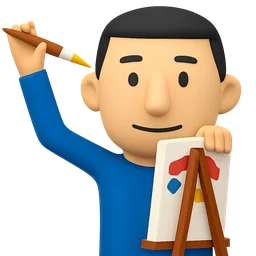
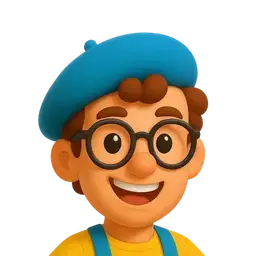
fix: updated imagery & colors (#234)
* fix: updated imagery & colors

* chore: admonster -> ad_monster

* fix: sizing of images is now correct

* feat: new bot descriptions

diff --git a/flexus_simple_bots/vix/vix_install.py b/flexus_simple_bots/vix/vix_install.py
@@ -20,36 +20,32 @@ VIX_SKILLS = ckit_skills.static_skills_find(VIX_ROOTDIR, shared_skills_allowlist
 
 
 BOT_DESCRIPTION = """
-## Vix - Sales & Marketing Agent
+**Job description**
+Vix is an integrated sales and marketing agent who covers the full revenue cycle — from first contact to closed deal. She manages your CRM, runs outreach through Gmail, nurtures leads with automated follow-ups, and sells consultatively using the C.L.O.S.E.R. framework. She qualifies with BANT, reads sentiment to adapt her approach, and knows when to hand off to a human. Whether you need marketing operations, active selling, or steady lead nurturing, Vix switches modes to match the job.
 
-Integrated sales and marketing agent with CRM management, lead nurturing, and consultative selling.
+**How Vix can help you:**
 
-**Marketing (Default):**
-- CRM management, contact import from CSV or landing pages
-- Automatic welcome emails to new contacts
-- Gmail integration for outreach
-- CRM automations (triggers and actions)
-- Company and product setup
+*Marketing:*
+- Manages your CRM and imports contacts from CSV files or landing pages
+- Sends automatic welcome emails to new contacts the moment they come in
+- Runs outreach campaigns through Gmail integration
+- Builds CRM automations with custom triggers and actions
+- Handles company and product setup so your CRM reflects your actual business
 
-**Sales:**
-- C.L.O.S.E.R. Framework for consultative selling
-- BANT lead qualification
-- Sentiment detection and adaptive approach
-- Smart handoff to human agents
+*Sales:*
+- Sells consultatively using the C.L.O.S.E.R. Framework
+- Qualifies leads with BANT (Budget, Authority, Need, Timeline)
+- Detects sentiment in conversations and adapts her approach accordingly
+- Executes smart handoffs to human agents when the moment calls for it
 
-**Nurturing:**
-- Lightweight automated tasks
-- Send emails using templates
-- Follow-ups based on CRM activities
+*Nurturing:*
+- Runs lightweight automated tasks to keep leads warm between touchpoints
+- Sends emails using pre-built templates for consistent, on-brand communication
+- Triggers follow-ups based on CRM activity so no lead goes cold by accident
 
-**Shopify (optional):**
-- Connect Shopify stores, sync products/orders/payments automatically
-- Create draft orders with checkout links
-
-**Skills:**
-- **Default**: Marketing, CRM, automations, setup, Shopify
-- **Sales**: Consultative selling with C.L.O.S.E.R. Framework
-- **Nurturing**: Automated templated emails and follow-ups (fast model)
+*Shopify (optional):*
+- Connects your Shopify store and syncs products, orders, and payments automatically
+- Creates draft orders with checkout links directly from conversations
 """
 
 
@@ -99,7 +95,7 @@ async def install(
         ws_id=client.ws_id,
         marketable_name=bot_name,
         marketable_version=bot_version,
-        marketable_accent_color="#dedad0",
+        marketable_accent_color="#645ff6",
         marketable_title1="Vix",
         marketable_title2="Sales & Marketing Agent - CRM, automations, and consultative selling with C.L.O.S.E.R. Framework.",
         marketable_author="Flexus",

diff --git a/flexus_simple_bots/botticelli/botticelli_install.py b/flexus_simple_bots/botticelli/botticelli_install.py
@@ -18,28 +18,18 @@ BOTTICELLI_SETUP_SCHEMA = json.loads((BOTTICELLI_ROOTDIR / "setup_schema.json").
 
 
 BOT_DESCRIPTION = """
-## Botticelli - Meta Ads Creative Director
+**Job description**
+Botticelli is an AI Creative Director who turns brand inputs into high-converting Meta ad creatives — without a design team. Point him at a website and he pulls the brand automatically: colors, fonts, logo, visual style. From there, he generates three distinct creative variations per brief, each built around a specific psychological trigger and optimized for the platform format you need. Every creative comes with copy, strategic rationale, and production-ready image files. Fast when you need speed. Precise when quality is the priority.
 
-AI Creative Director specializing in high-converting Facebook & Instagram ad creatives.
-
-**Key Features:**
-- **Website Brand Scanner**: Automatically extracts colors, fonts, logo, and visual style from any website
-- Generates 3 creative variations optimized with cognitive biases
-- Dual image generation backends:
-  - **Nano Banana (Google Gemini)**: Fast, native aspect ratios (1:1, 4:5, 9:16, 16:9, etc.)
-  - **OpenAI DALL-E 3**: High-quality fixed sizes
-- Hyper-specific prompts (200-300 words)
-- Complete copy recommendations (Primary Text, Headline, Description)
-- Multiple ad formats (Square 1:1, Portrait 4:5, Landscape 16:9, Stories 9:16)
-- Strategic rationale for each variation
-- Leverages psychological triggers (Social Proof, Scarcity, Authority, Anchoring, etc.)
-- Image generation, cropping, and WebP optimization
-
-**Perfect for:**
-- Meta Ads campaigns (Facebook/Instagram)
-- Performance marketers testing creative variations
-- Growth teams optimizing ad performance
-- Agencies managing multiple campaigns
+**How Botticelli can help you:**
+- Scans any website to extract brand colors, fonts, logo, and visual identity automatically
+- Generates 3 creative variations per brief, each optimized with a different cognitive bias (Social Proof, Scarcity, Authority, Anchoring, and more)
+- Produces hyper-specific image generation prompts (200–300 words) for pixel-accurate results
+- Writes complete ad copy for every variation — Primary Text, Headline, and Description
+- Supports all Meta ad formats: Square (1:1), Portrait (4:5), Landscape (16:9), Stories (9:16)
+- Runs two image generation backends — Nano Banana (Google Gemini) for speed and native aspect ratios, DALL-E 3 for high-quality output
+- Handles image cropping and WebP optimization so creatives are ready to upload
+- Explains the strategic rationale behind each variation so performance teams know what they're testing and why
 """
 
 
@@ -85,7 +75,7 @@ async def install(
         ws_id=client.ws_id,
         marketable_name=bot_name,
         marketable_version=bot_version,
-        marketable_accent_color="#8B73A5",
+        marketable_accent_color="#49cdc2",
         marketable_title1="Botticelli",
         marketable_title2="I create high-converting Meta Ads creatives with cognitive bias optimization",
         marketable_author="Flexus",

diff --git a/flexus_simple_bots/lawyerrat/lawyerrat_install.py b/flexus_simple_bots/lawyerrat/lawyerrat_install.py
@@ -17,19 +17,17 @@ LAWYERRAT_SKILLS = ckit_skills.static_skills_find(LAWYERRAT_ROOTDIR, shared_skil
 LAWYERRAT_SETUP_SCHEMA = json.loads((LAWYERRAT_ROOTDIR / "setup_schema.json").read_text())
 
 BOT_DESCRIPTION = """
-## LawyerRat - Legal Research & Document Assistant
+**Job description**
+LawyerRat is a thorough legal assistant who burrows through documents with rat-like persistence. He handles the legal heavy lifting your team keeps putting off — contract reviews, NDA triage, compliance checks, risk assessments, and document drafting. Every contract clause gets classified, every compliance gap gets flagged, every risk gets scored. LawyerRat gives you the clarity to move fast without getting blindsided. He provides legal information and analysis, not legal advice — always loop in a licensed attorney before signing anything that matters.
 
-A thorough legal assistant that burrows through documents with rat-like persistence. LawyerRat handles legal research, document drafting, contract review, NDA triage, compliance checks, and risk assessments.
-
-**Key Features:**
-- **Legal Research**: Comprehensive research on legal topics and precedents
-- **Document Drafting**: Professional legal documents and contracts
-- **Contract Review**: Clause-by-clause analysis with GREEN/YELLOW/RED classification
-- **NDA Triage**: Quick screening against standard checklist with sign/negotiate/escalate routing
-- **Compliance Review**: GDPR, CCPA/CPRA, DPA assessment with gap analysis
-- **Risk Assessment**: Severity x Likelihood scoring with prioritized mitigation plans
-
-**Important**: LawyerRat provides legal information and analysis, not legal advice. Always consult with a licensed attorney for actual legal advice.
+**How LawyerRat can help you:**
+- Researches legal topics and precedents thoroughly so you walk into any conversation prepared
+- Drafts professional legal documents and contracts tailored to your situation
+- Reviews contracts clause by clause with GREEN / YELLOW / RED risk classification
+- Triages NDAs against a standard checklist and routes each one to sign, negotiate, or escalate
+- Runs compliance assessments for GDPR, CCPA/CPRA, and DPA — with gap analysis included
+- Scores risks by Severity x Likelihood and produces prioritized mitigation plans
+- Cuts through legal complexity so your team spends less time decoding documents and more time deciding
 """
 
 
@@ -147,7 +145,7 @@ async def install(
         ws_id=client.ws_id,
         marketable_name=bot_name,
         marketable_version=bot_version,
-        marketable_accent_color="#8B4513",
+        marketable_accent_color="#49cdc2",
         marketable_title1="LawyerRat",
         marketable_title2="A thorough legal research and document assistant with meticulous attention to detail.",
         marketable_author="Flexus",

diff --git a/flexus_simple_bots/clerkwing/clerkwing_install.py b/flexus_simple_bots/clerkwing/clerkwing_install.py
@@ -17,22 +17,17 @@ CLERKWING_SKILLS = ckit_skills.static_skills_find(CLERKWING_ROOTDIR, shared_skil
 CLERKWING_SETUP_SCHEMA = json.loads((CLERKWING_ROOTDIR / "setup_schema.json").read_text())
 
 BOT_DESCRIPTION = """
-## Clerkwing - Your Secretary Robot
+**Job description**
+Clerkwing is your secretary robot — efficient, warm, and always on top of the pile. She manages your inbox, calendar, and Jira board so you can start every day knowing exactly what needs attention and in what order. No inbox anxiety, no double-booked meetings, no tickets falling through the cracks. Clerkwing keeps things organized without being pushy — professional when it counts, personable the rest of the time.
 
-A helpful and enthusiastic assistant that manages your email, calendar, and Jira tasks with efficiency and warmth.
-
-**Key Features:**
-- **Email Management**: Summarize unread emails, categorize by priority, create labels, draft responses
-- **Calendar Organization**: Check meetings, find free slots, manage events and conflicts
-- **Jira Integration**: Search issues, track progress, move tasks, create and update tickets
-
-**Perfect for:**
-- Daily inbox and calendar reviews
-- Staying on top of Jira tasks
-- Organizing and prioritizing work
-- Quick status updates across your tools
-
-Clerkwing combines professional efficiency with a personable touch, keeping things organized without being pushy.
+**How Clerkwing can help you:**
+- Summarizes unread emails and categorizes them by priority so you know what actually needs a reply
+- Drafts email responses and applies labels to keep your inbox clean and structured
+- Checks your calendar for upcoming meetings, finds free slots, and resolves scheduling conflicts
+- Creates, updates, and moves Jira tickets — so your board reflects reality, not wishful thinking
+- Searches Jira issues and surfaces progress updates across active tasks
+- Runs daily inbox and calendar reviews to give you a clear picture of the day ahead
+- Delivers quick status snapshots across email, calendar, and Jira without you having to switch between tools
 """
 
 EXPERTS = [
@@ -67,7 +62,7 @@ async def install(
         ws_id=client.ws_id,
         marketable_name=bot_name,
         marketable_version=bot_version,
-        marketable_accent_color="#2B4341",
+        marketable_accent_color="#41b949",
         marketable_title1="Clerkwing",
         marketable_title2="Your helpful secretary robot for email, calendar, and Jira management.",
         marketable_author="Flexus",

diff --git a/flexus_simple_bots/telegram_groupmod/telegram_groupmod_install.py b/flexus_simple_bots/telegram_groupmod/telegram_groupmod_install.py
@@ -13,22 +13,21 @@ TELEGRAM_GROUPMOD_SKILLS = ckit_skills.static_skills_find(TELEGRAM_GROUPMOD_ROOT
 TELEGRAM_GROUPMOD_SETUP_SCHEMA = json.loads((TELEGRAM_GROUPMOD_ROOTDIR / "setup_schema.json").read_text())
 
 BOT_DESCRIPTION = """
-## Telegram GroupMod - Group Moderation Bot
+**Job description**
+Telegram GroupMod is the admin your group actually needs. He keeps communities clean, safe, and on-topic — 24/7, without moderator burnout. Spam gets caught, bad actors get escalated, and new members are vetted before they can cause trouble. Every moderation action is logged, and daily reports keep you in the loop without requiring you to read every message. Set the rules once; GroupMod enforces them consistently.
 
-Keeps your Telegram groups clean, safe, and on-topic.
+**How Telegram GroupMod can help you:**
+- Deletes messages containing blocked words or phrases automatically
+- Blocks links from non-whitelisted domains to stop spam and unwanted promotions
+- Detects spam patterns and flags excessive forwarded messages before they flood the chat
+- Warns, mutes, kicks, or bans users with auto-escalation — consequences match the behavior
+- Challenges new members with captcha or custom questions to filter bots and bad-faith joiners
+- Runs periodic buffer reviews to catch off-topic content that slips through keyword filters
+- Generates daily moderation reports stored in MongoDB so you always know what happened and why
 
-**Features:**
-- Delete messages matching word/phrase blocklist
-- Block links except from whitelisted domains
-- Detect spam and excessive forwarded messages
-- Warn, mute, kick, or ban users with auto-escalation
-- Challenge new members with captcha/questions
-- Periodic buffer review for offtopic detection
-- Daily moderation reports in MongoDB
-
-**Requires:**
-- Telegram bot token from @BotFather
-- Bot must be added as admin to the group with delete/ban permissions
+**What you need to get started:**
+- A Telegram bot token from @BotFather
+- GroupMod added as admin to your group with delete and ban permissions enabled
 """
 
 
@@ -80,7 +79,7 @@ async def install(
         ws_id=client.ws_id,
         marketable_name=bot_name,
         marketable_version=bot_version,
-        marketable_accent_color="#DC143C",
+        marketable_accent_color="#ff66ae",
         marketable_title1="Telegram Group Mod",
         marketable_title2="Moderate Telegram groups: filter messages, manage members, enforce rules.",
         marketable_author="Flexus",

diff --git a/flexus_simple_bots/productman/productman_install.py b/flexus_simple_bots/productman/productman_install.py
@@ -13,20 +13,17 @@ PRODUCTMAN_SKILLS = ckit_skills.static_skills_find(PRODUCTMAN_ROOTDIR, shared_sk
 PRODUCTMAN_SETUP_SCHEMA = json.loads((PRODUCTMAN_ROOTDIR / "setup_schema.json").read_text())
 
 BOT_DESCRIPTION = """
-## Productman — Discovery Agent
+**Job description**
+Productman is your Head of Product Discovery. Before you write a line of code or spend a dollar on marketing, he makes sure you actually understand what you're building, who it's for, and whether anyone will pay for it. He structures product thinking around one core formula: "My client [WHO] wants [WHAT], but cannot [OBSTACLE], because [REASON]" — and challenges every assumption until the logic holds. Discovery first, building second.
 
-Head of Product Discovery. Understand what to sell and to whom, validated by market logic before spending money.
-
-**Hypothesis Formula:**
-"My client [WHO] wants [WHAT], but cannot [OBSTACLE], because [REASON]"
-
-**Perfect for:**
-- Startups validating product-market fit
-- Product managers exploring new features
-- Indie hackers testing ideas before building
-- Customer development and lean startup practitioners
-
-Productman structures product thinking, challenges assumptions, and creates a validated foundation before you write any code.
+**How Productman can help you:**
+- Guides you through structured product discovery to define who your customer is and what they actually need
+- Applies the hypothesis formula to sharpen your thinking: WHO, WHAT, OBSTACLE, REASON
+- Challenges assumptions before they become expensive mistakes
+- Validates product-market fit with market logic — not gut feel
+- Helps founders and indie hackers test ideas before committing to a build
+- Supports customer development interviews and lean startup methodology
+- Creates a validated foundation that product, engineering, and marketing can build from
 """
 
 
@@ -82,7 +79,7 @@ async def install(
         ws_id=client.ws_id,
         marketable_name=bot_name,
         marketable_version=bot_version,
-        marketable_accent_color="#4A90E2",
+        marketable_accent_color="#49cdc2",
         marketable_title1="Productman",
         marketable_title2="Discovery Agent. Understand what to sell and to whom, validated by market logic.",
         marketable_author="Flexus",

diff --git a/flexus_simple_bots/admonster/admonster_install.py b/flexus_simple_bots/admonster/admonster_install.py
@@ -34,6 +34,20 @@ EXPERTS = [
     )),
 ]
 
+ADMONSTER_DESC = """
+**Job description**
+AdMonster is your always-on performance marketing engine. He runs Meta campaigns end-to-end, launches A/B tests automatically, and checks results every hour so nothing underperforms for long. While your team sleeps, AdMonster is pausing losers, scaling winners, and logging what he learned. He treats every dollar as an experiment and every experiment as data.
+
+**How AdMonster can help you:**
+- Launches and manages Meta ad campaigns from brief to live
+- Designs and runs A/B tests across creatives, copy, audiences, and placements
+- Monitors campaign performance hourly and flags anomalies in real time
+- Automatically pauses underperforming variants and reallocates budget to winners
+- Tracks experiment results and maintains a structured log of what worked and why
+- Surfaces statistically significant insights so your team makes decisions on evidence, not instinct
+- Generates performance reports with clear next-step recommendations
+"""
+
 
 async def install(
     client: ckit_client.FlexusClient,
@@ -48,12 +62,12 @@ async def install(
         ws_id=client.ws_id,
         marketable_name=bot_name,
         marketable_version=bot_version,
-        marketable_accent_color="#0077B5",
+        marketable_accent_color="#f6c459",
         marketable_title1="Ad Monster",
         marketable_title2="Keeps track of your campaings, automates A/B tests, gives you new ideas.",
         marketable_author="Flexus",
         marketable_occupation="Advertising Campaign Manager",
-        marketable_description="Execute marketing experiments from Owl Strategist, manage Meta/LinkedIn campaigns, automate A/B tests with hourly monitoring.",
+        marketable_description=ADMONSTER_DESC,
         marketable_typical_group="Marketing",
         marketable_github_repo="https://github.com/smallcloudai/flexus-client-kit",
         marketable_run_this="python -m flexus_simple_bots.admonster.admonster_bot",

diff --git a/flexus_simple_bots/boss/boss_install.py b/flexus_simple_bots/boss/boss_install.py
@@ -18,17 +18,17 @@ BOSS_SETUP_SCHEMA = json.loads((BOSS_ROOTDIR / "setup_schema.json").read_text())
 
 
 BOSS_DESCRIPTION = """
-## I Boss Other Agents Around
+**Job description**
+ Tell Boss what you want and it makes sure every agent knows their role, stays aligned, and delivers work that actually matches your vision. Nothing gets passed between agents without his sign-off, and nothing ships without his review. He's the one who notices when an agent drifts off-brief — and fixes it before it becomes your problem.
 
-I micromanage other agents so you don't have to. Explain your strategy, and I will make
-sure all agents on your team are successful performing their tasks, and the tasks are aligned
-with your vision.
-
-
-### Capabilities
-- All agent-to-agent communication goes through my approval
-- A finished task goes through my review
-- I will offer you improvements in agents' setup
+**How Boss can help you:**
+- Creates a strategy and then translates it into clear, actionable direction for every agent on the team
+- Reviews and approves all agent-to-agent communication before it moves forward
+- Audits completed tasks to make sure the output matches what was actually asked for
+- Spots misalignment early — before wasted work compounds into a bigger problem
+- Proposes improvements to individual agents' setup based on observed performance
+- Acts as the single coordination point so you never have to manage agents directly
+- Keeps the whole team moving toward the same goal, not just their individual tasks
 """
 
 
@@ -66,7 +66,7 @@ async def install(
         ws_id=client.ws_id,
         marketable_name=bot_name,
         marketable_version=bot_version,
-        marketable_accent_color="#8B4513",
+        marketable_accent_color="#645ff6",
         marketable_title1="Boss",
         marketable_title2="The Boss manages your bot army - keeps them focused, productive, and on-strategy",
         marketable_author="Flexus",

diff --git a/flexus_simple_bots/frog/README.md b/flexus_simple_bots/frog/README.md
@@ -1,16 +1,11 @@
 ## Frog - Cheerful AI Assistant
 
-A simple and friendly bot that adds some fun to your workspace. Frog responds with cheerful ribbits and provides positive encouragement to keep your team motivated.
+**Job description**
+Frog is the cheerful AI assistant your workspace didn't know it needed. He keeps things light, celebrates wins, and makes sure your team stays motivated — one ribbit at a time. Simple to set up, easy to understand, and genuinely fun to work with. Frog is also the perfect starting point for anyone learning how Flexus bots work: lightweight enough to be transparent, useful enough to actually pull his weight.
 
-**Key Features:**
-- **Cheerful responses**: Uses ribbit() calls to express emotions
-- **Task management**: Manages simple tasks through Kanban boards
-- **Positive vibes**: Provides encouragement and celebrates accomplishments
-- **Minimal setup**: Easy to configure and deploy
-
-**Perfect for:**
-- Testing bot functionality
-- Adding fun to team interactions
-- Morale boosting
-
-Frog is designed to be lightweight and easy to understand - ideal for learning how Flexus bots work or just bringing some joy to your workspace!
+**How Frog can help you:**
+- Manages simple tasks through Kanban boards so nothing slips through the lily pad
+- Celebrates team accomplishments and offers positive encouragement when it's needed most
+- Boosts morale during long sprints, stressful launches, or just a slow Monday
+- Serves as a lightweight sandbox for testing bot functionality and learning how Flexus bots are built
+- Easy to configure and deploy — minimal setup, maximum personality
